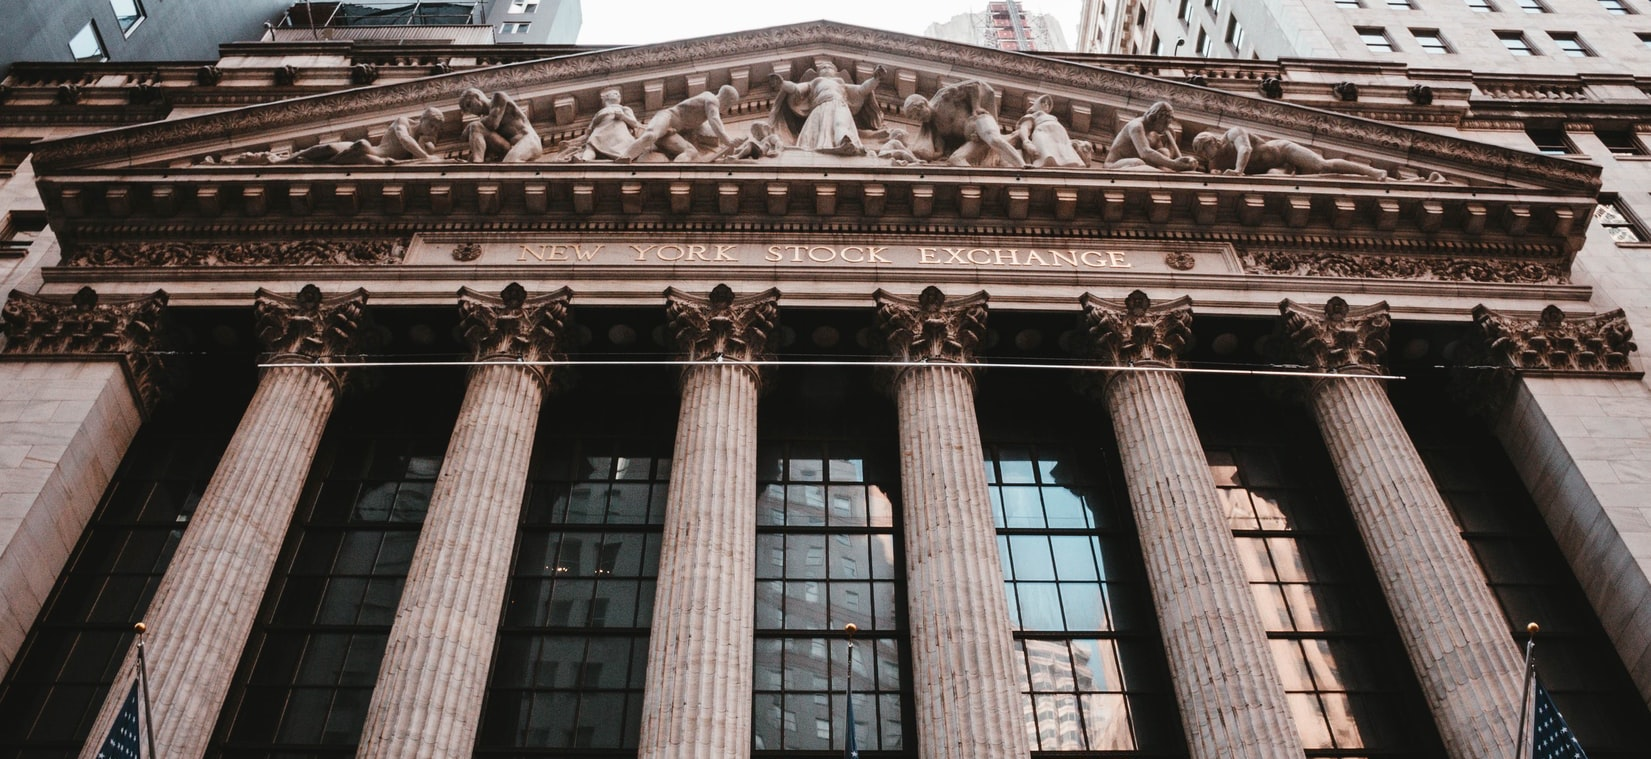
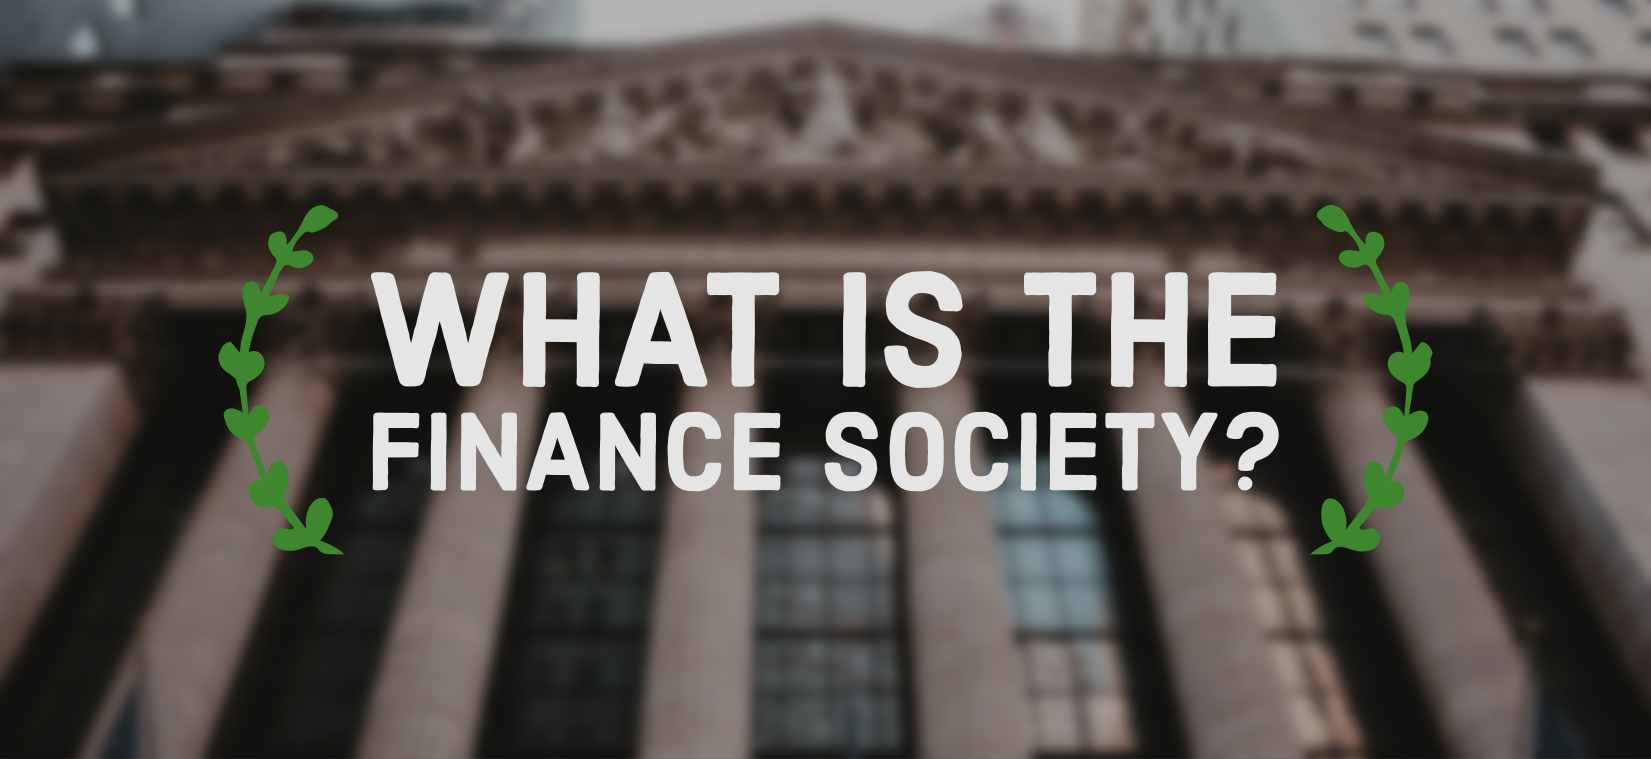
change wallstreet

diff --git a/index.html b/index.html
@@ -67,7 +67,6 @@
         <br><br>
 
         <div class="container">
-            <br>
             <img src="images/coverphoto.jpeg" alt=""><br><br><br>
         <h2>Dear Members,</h2>
             <p>We are extremely excited to have everyone join us tonight for the Finance Society Fall 2020 Opening Social.

diff --git a/about.html b/about.html
@@ -68,8 +68,7 @@
 
         <div class="container">
 
-        <h1>What is the Finance Society?</h1>
-        <br><br>
+
         <img src="images/wallstreet.jpeg" alt=""><br><br>
         <p>The Finance Society is the flagship, student-led organization for students interested in finance-oriented careers.
 
